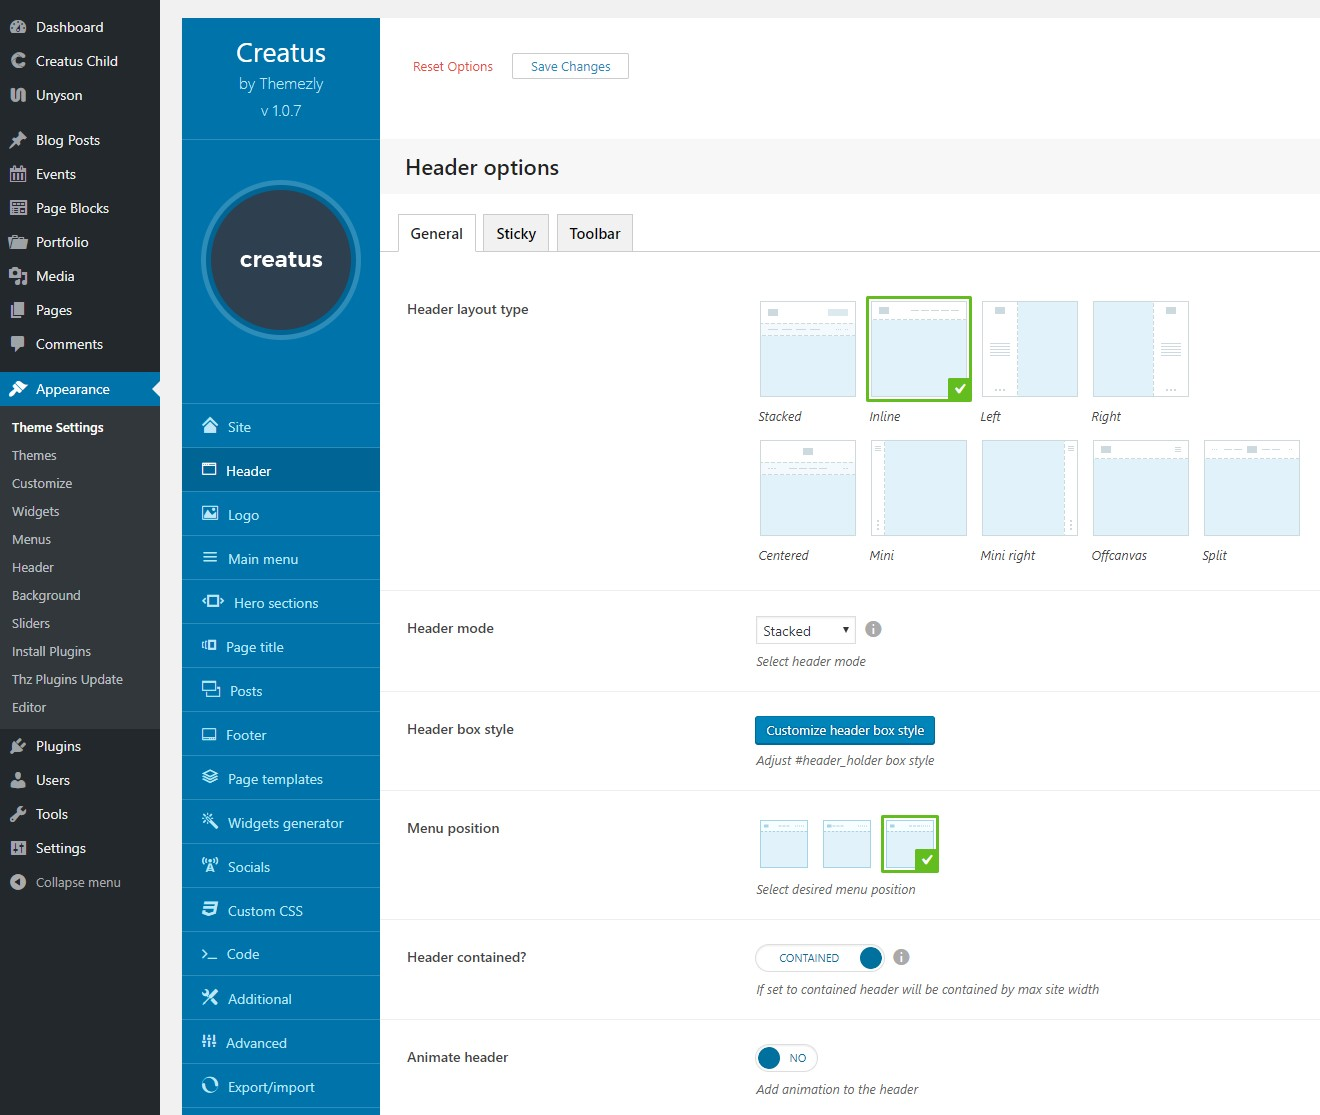
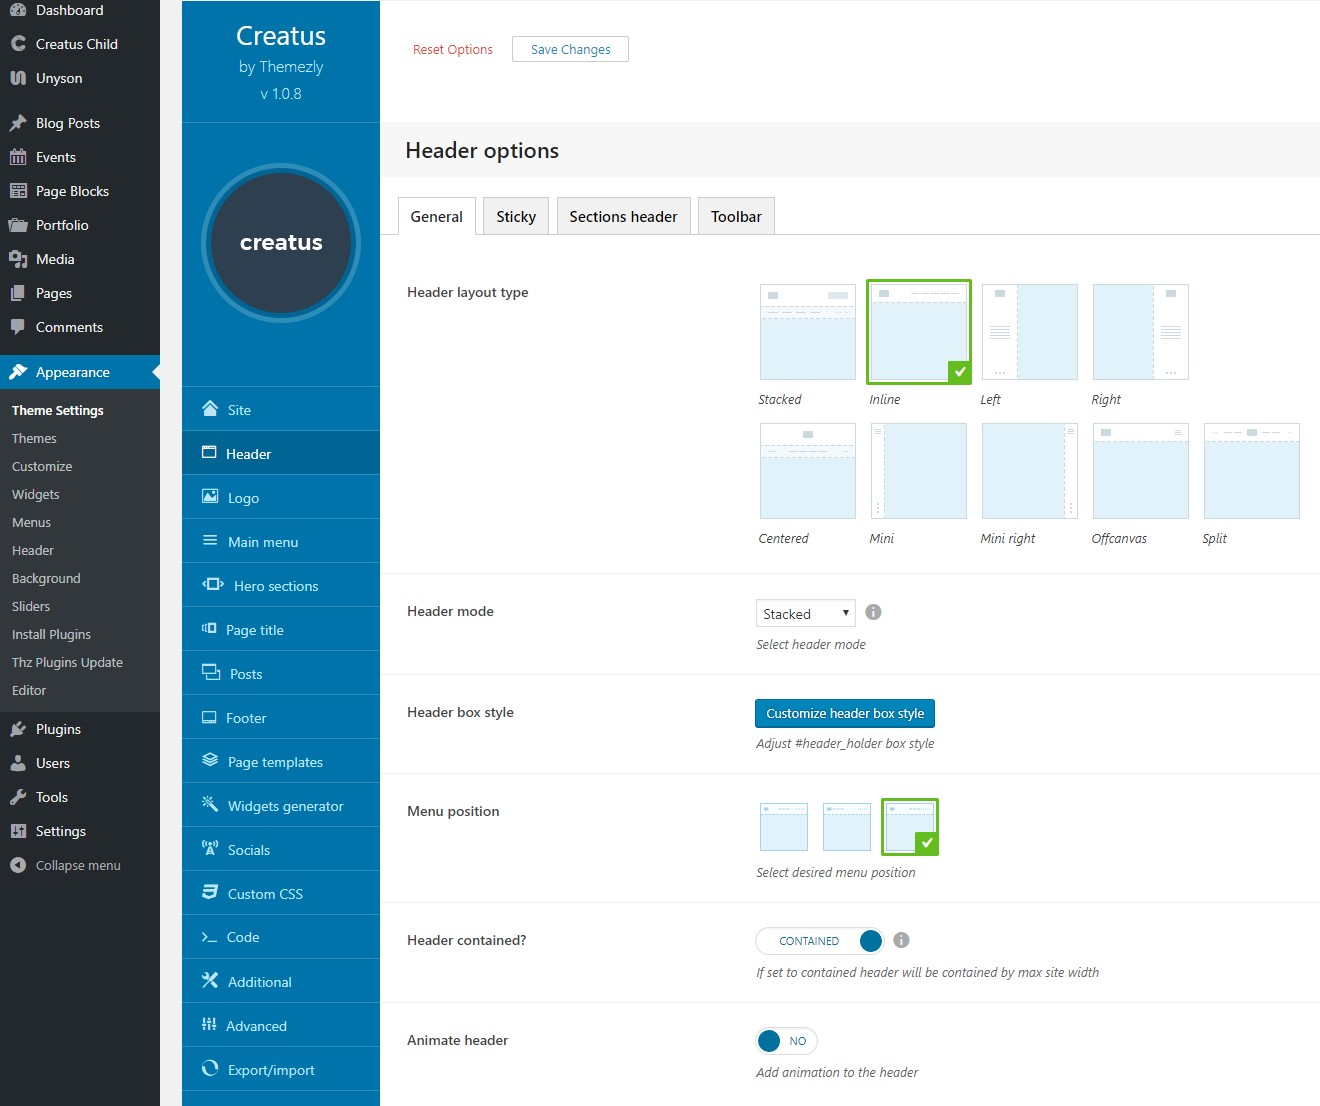
options update

diff --git a/pages/theme-settings/logo-options.md b/pages/theme-settings/logo-options.md
@@ -25,8 +25,8 @@ To access Creatus __Logo Options__ please go to __Appearance__ >  __Theme Settin
 Textual logo section contains the options that will help you pick __default__, __transparent or offcanvas __, __sticky header__ and __mobile__ text logo. Just like with any other Creatus typography option,  you have full acess to all available [__800 + Google fonts__](https://fonts.google.com/).
 
 <div class="thz-doc-image max">
-<a class="thz-lightbox mfp-image" href="../../docs-media/logo-options-1.jpg" data-mfp-title="Creatus WordPress Theme Admin Logo Textual" data-modal-size="large">
-	<img src="../../docs-media/logo-options-1.jpg" alt="Creatus WordPress Theme Logo Options 1" />
+<a class="thz-lightbox mfp-image" href="../../docs-media/logo-options-1.jpg?v=2" data-mfp-title="Creatus WordPress Theme Admin Logo Textual" data-modal-size="large">
+	<img src="../../docs-media/logo-options-1.jpg?v=2" alt="Creatus WordPress Theme Logo Options 1" />
 </a>
 </div>
 ### Image Logo
@@ -34,8 +34,8 @@ Textual logo section contains the options that will help you pick __default__, _
 Image logo section contains __select/upload__ images options for __default__, __transparent or offcanvas header__, __sticky header__ and __mobile__ logo. 
 
 <div class="thz-doc-image max">
-<a class="thz-lightbox mfp-image" href="../../docs-media/logo-options-2.jpg" data-mfp-title="Creatus WordPress Theme Admin Logo Image" data-modal-size="large">
-	<img src="../../docs-media/logo-options-2.jpg" alt="Creatus WordPress Theme Logo Options 2" />
+<a class="thz-lightbox mfp-image" href="../../docs-media/logo-options-2.jpg?v=2" data-mfp-title="Creatus WordPress Theme Admin Logo Image" data-modal-size="large">
+	<img src="../../docs-media/logo-options-2.jpg?v=2" alt="Creatus WordPress Theme Logo Options 2" />
 </a>
 </div>
 
@@ -45,8 +45,8 @@ Image logo section contains __select/upload__ images options for __default__, __
 There are two ways to add logo SVG. Fast way is to select __any image and add your logo SVG code in the image description textarea__. Another way is to enable WordPress SVG uploads. To do so you need to __use 3rd party plugin__ that allows this feature.
 
 <div class="thz-doc-image max">
-<a class="thz-lightbox mfp-image" href="../../docs-media/logo-options-3.jpg" data-mfp-title="Creatus WordPress Theme Admin Logo SVG" data-modal-size="large">
-	<img src="../../docs-media/logo-options-3.jpg" alt="Creatus WordPress Theme Logo Options 3" />
+<a class="thz-lightbox mfp-image" href="../../docs-media/logo-options-3.jpg?v=2" data-mfp-title="Creatus WordPress Theme Admin Logo SVG" data-modal-size="large">
+	<img src="../../docs-media/logo-options-3.jpg?v=2" alt="Creatus WordPress Theme Logo Options 3" />
 </a>
 </div>
 

diff --git a/pages/framework/elements/section.md b/pages/framework/elements/section.md
@@ -7,7 +7,7 @@
 Section element is main layout building block used to separate columns in to rows. Element popup contains following options;
 
 #### Layout tab{.options-tab}
-1. __ Section name __ &nbsp;-&nbsp; Set section name label. Section name label is used in builder for easy sorting and if you add it to scroll menu it is used in section scroll menu shortcode as tooltip. If you add this section label to scroll menu, do not forget to add Section scroll menu shortcode to the builder.
+1. __ Section metrics __ &nbsp;-&nbsp; Set section metrics. Section label is used in builder for easy sorting and if you add it to scroll menu it is used in section scroll menu element as tooltip. If you add this section label to scroll menu, __do not forget to add__ Section menu element to the builder. If you select exclude in Full page inclusion option, this section will be displayed as normal section.
 1. __ Layout mode __ &nbsp;-&nbsp; Select section layout mode. By default grid layout is created by using left floats for columns, if set to flex or flex equal height grid is using flexbox layout wich gives you additional column flexibility.
 1. __ Section box style __ &nbsp;-&nbsp; Adjust .thz-section-holder section box style.
 1. __ Section Contained __ &nbsp;-&nbsp; If set to contained this section will be contained by max site width.
@@ -27,3 +27,7 @@ Section element is main layout building block used to separate columns in to row
 1. __ Scroll fade __ &nbsp;-&nbsp; Add scroll fade effect. This option adds fade effect on scroll to the HTML container or the container content.
 1. __ Full height __ &nbsp;-&nbsp; Add full height effect. This option adds full height ( viewport height ) to the HTML container.
 1. __ Separator __ &nbsp;-&nbsp; Add separator. This option adds separator layer to the HTML container.
+
+#### Responsive tab{.options-tab}
+1. __Section breakpoints__ &nbsp;-&nbsp; Add custom section settings on specific breakpoints.
+1. __Columns breakpoints__ &nbsp;-&nbsp; Add custom settings for all section columns on specific breakpoints.

diff --git a/pages/theme-settings/header-options.md b/pages/theme-settings/header-options.md
@@ -37,6 +37,17 @@ Sticky tab contains options that will help you control __sticky header type__, _
 </a>
 </div>
 
+### Sections header tab
+ 
+Sections header tab contains options that will help you control __dark sections header style__ and __light sections header style__.
+
+<div class="thz-doc-image max">
+<a class="thz-lightbox mfp-image" href="../../docs-media/header-options-4.jpg?" data-mfp-title="Creatus WordPress Theme Admin Header Sticky Tab" data-modal-size="large">
+	<img src="../../docs-media/header-options-4.jpg?" alt="Creatus WordPress Theme Header Options 4" />
+</a>
+</div>
+
+
 ### Toolbar Tab
 
 Toolbar tab contains options that will help you control __header toolbar style__, __toolbar content__, __toolbar slogan__ options and __toolbar navigation__ links style. 

diff --git a/pages/posts-taxonomies/page-options.md b/pages/posts-taxonomies/page-options.md
@@ -12,7 +12,8 @@ To access Creatus __Page options__ please go to __Post/page/taxonomy__  edit pag
 This section contains custom options that will help you adjust following settings;
 
 
-
+1. __Full page rows__ &nbsp;-&nbsp; Full page rows options set requires page builder to be active and have sections.
+To add scroll menu, go to Content Elements tab in page builder and add Sections menu element.
 1. __Main navigation menu__ &nbsp;-&nbsp; Select different navigation menu for this page. Leave empty for default Top menu.
 1. __Secondary navigation menu__ &nbsp;-&nbsp; Select different secondary menu for this page. Leave empty for default Secondary menu.
 1. __Custom site options__ &nbsp;-&nbsp; Add custom site options for this page or leave as is for theme defaults.
